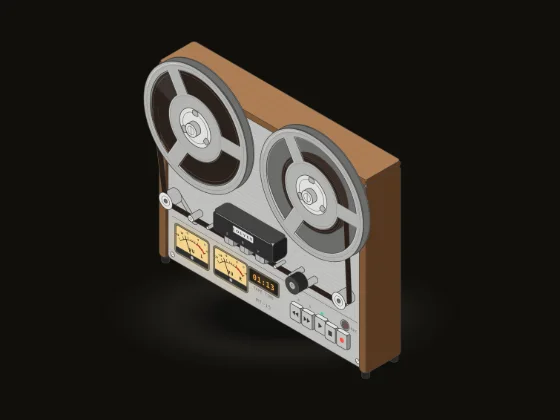
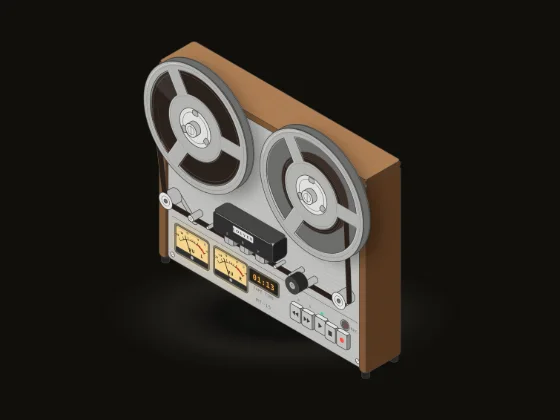
Finish the reel-to-reel deck when done winds it to the end, and give its reels and needles shadows
With motion, done wound the tape to the end through the progress servo,
which lands it exactly there, so the deck never reported complete; it now
completes on arrival, and the pinch roller lets go once it has stopped.
A test covers done with motion.

The reels cast a soft shadow on the plate, the VU needles a faint one on
their faces, and the meter bezels shade the top of each face. Thumbnails
retaken.

diff --git a/packages/miniatures/src/figures/reel-to-reel.ts b/packages/miniatures/src/figures/reel-to-reel.ts
@@ -4,15 +4,15 @@
  * (FigureModule). */
 import type { FigureEnv, FigureModule } from '../engine/types'
 
-const css = `:root{color-scheme:light dark;--bg:#f4f3ef;--ink:#323232;--muted:#808080;--top:#fafaf8;--body:#e0e0dc;--side:#c7c7c3;--recess:#9d9d99;--line:#626260;--accent:#3b5bfd;--rule:#d6d6d2;--shadow:#262626;--off:#b9b9b5;--ok:#15a65e;--warn:#e88a00;--fault:#e3372d;--screen:#1c1d1e;--alu:#e0e0dd;--alu-top:#f2f2f0;--alu-side:#c6c6c2;--wood:#9a6a42;--wood-top:#b9875a;--wood-side:#7b5232;--chrome:#d9dad8;--chrome-top:#f4f4f2;--chrome-side:#bdbebc;--rubber:#2e2e2d;--rubber-top:#474745;--rubber-side:#282827;--blk:#3a3a39;--blk-top:#4a4a48;--blk-side:#2d2d2c;--reel:#d3d4d1;--reel-top:#eeefec;--reel-side:#b1b2af;--reel-in:#a3a4a1;--pack:#3a2e27;--pack-side:#4d3c31;--pack-hi:#6e5646;--tape:#35281f;--tape-edge:#8a6c55;--key:#e6e6e3;--key-top:#f7f7f5;--key-side:#c9c9c5;--vu:#f2e8c9;--vu-ink:#2b2720;--vu-red:#d2402e;--needle:#1c1c1b;--lamp:#ffd27a;--lcd:#ffb347;--rec-off:#a7716b;--brush:.5;--glow:0}
-@media(prefers-color-scheme:dark){:root{--bg:#1a1917;--ink:#e8e8e8;--muted:#929292;--rule:#32312e;--accent:#617cff;--shadow:#000;--top:#eaeae8;--body:#bdbdba;--side:#8c8c8b;--recess:#6e6e6c;--off:#9b9b99;--ok:#36d886;--warn:#ffad2b;--fault:#ff4c41;--screen:#161717;--alu:#bdbdbb;--alu-top:#e2e2e1;--alu-side:#8b8b8a;--wood:#815836;--wood-top:#ad7e54;--wood-side:#553720;--chrome:#b7b7b6;--chrome-top:#e4e4e2;--chrome-side:#858585;--rubber:#252524;--rubber-top:#424240;--rubber-side:#191919;--blk:#2f2f2f;--blk-top:#454543;--blk-side:#1d1d1c;--reel:#b2b3b1;--reel-top:#dfe0de;--reel-side:#7d7e7c;--reel-in:#6c6d6b;--pack:#2a211c;--pack-side:#3b2e25;--pack-hi:#5c4839;--tape:#2a2019;--tape-edge:#76604d;--key:#c3c3c1;--key-top:#e3e3e1;--key-side:#8a8a88;--vu:#f4d58e;--vu-ink:#2a2116;--vu-red:#c8392a;--needle:#151515;--lamp:#ffcf6e;--lcd:#ffb04a;--rec-off:#6f504c;--brush:.2;--glow:.55;--line:#444443}svg{--ink:#282828;--muted:#6b6b6b}}
+const css = `:root{color-scheme:light dark;--bg:#f4f3ef;--ink:#323232;--muted:#808080;--top:#fafaf8;--body:#e0e0dc;--side:#c7c7c3;--recess:#9d9d99;--line:#626260;--accent:#3b5bfd;--rule:#d6d6d2;--shadow:#262626;--off:#b9b9b5;--ok:#15a65e;--warn:#e88a00;--fault:#e3372d;--screen:#1c1d1e;--alu:#e0e0dd;--alu-top:#f2f2f0;--alu-side:#c6c6c2;--wood:#9a6a42;--wood-top:#b9875a;--wood-side:#7b5232;--chrome:#d9dad8;--chrome-top:#f4f4f2;--chrome-side:#bdbebc;--rubber:#2e2e2d;--rubber-top:#474745;--rubber-side:#282827;--blk:#3a3a39;--blk-top:#4a4a48;--blk-side:#2d2d2c;--reel:#d3d4d1;--reel-top:#eeefec;--reel-side:#b1b2af;--reel-in:#a3a4a1;--pack:#3a2e27;--pack-side:#4d3c31;--pack-hi:#6e5646;--tape:#35281f;--tape-edge:#8a6c55;--key:#e6e6e3;--key-top:#f7f7f5;--key-side:#c9c9c5;--vu:#f2e8c9;--vu-ink:#2b2720;--vu-red:#d2402e;--needle:#1c1c1b;--lamp:#ffd27a;--lcd:#ffb347;--rec-off:#a7716b;--brush:.5;--glow:0;--rsh:.12}
+@media(prefers-color-scheme:dark){:root{--bg:#1a1917;--ink:#e8e8e8;--muted:#929292;--rule:#32312e;--accent:#617cff;--shadow:#000;--top:#eaeae8;--body:#bdbdba;--side:#8c8c8b;--recess:#6e6e6c;--off:#9b9b99;--ok:#36d886;--warn:#ffad2b;--fault:#ff4c41;--screen:#161717;--alu:#bdbdbb;--alu-top:#e2e2e1;--alu-side:#8b8b8a;--wood:#815836;--wood-top:#ad7e54;--wood-side:#553720;--chrome:#b7b7b6;--chrome-top:#e4e4e2;--chrome-side:#858585;--rubber:#252524;--rubber-top:#424240;--rubber-side:#191919;--blk:#2f2f2f;--blk-top:#454543;--blk-side:#1d1d1c;--reel:#b2b3b1;--reel-top:#dfe0de;--reel-side:#7d7e7c;--reel-in:#6c6d6b;--pack:#2a211c;--pack-side:#3b2e25;--pack-hi:#5c4839;--tape:#2a2019;--tape-edge:#76604d;--key:#c3c3c1;--key-top:#e3e3e1;--key-side:#8a8a88;--vu:#f4d58e;--vu-ink:#2a2116;--vu-red:#c8392a;--needle:#151515;--lamp:#ffcf6e;--lcd:#ffb04a;--rec-off:#6f504c;--brush:.2;--glow:.55;--rsh:.3;--line:#444443}svg{--ink:#282828;--muted:#6b6b6b}}
 .face{fill:var(--body);stroke:var(--line);stroke-width:1;vector-effect:non-scaling-stroke;stroke-linejoin:round}.top{fill:var(--top)}.side{fill:var(--side,var(--body))}.recess{fill:var(--recess)}.screen{fill:var(--screen)}.detail{fill:none;stroke:var(--line);stroke-width:.65;vector-effect:non-scaling-stroke;stroke-linecap:round;stroke-linejoin:round}.etch{fill:var(--muted);font:3.2px ui-monospace,monospace;letter-spacing:.45px;stroke:none}.micro{font-size:2.6px;letter-spacing:.2px}.center{text-anchor:middle}.shadow{fill:var(--shadow);opacity:.075;filter:url(#soft)}
 .alu{fill:var(--alu)}.top.alu{fill:var(--alu-top)}.side.alu{fill:var(--alu-side)}.wood{fill:var(--wood)}.top.wood{fill:var(--wood-top)}.side.wood{fill:var(--wood-side)}.chrome{fill:var(--chrome)}.top.chrome{fill:var(--chrome-top)}.side.chrome{fill:var(--chrome-side)}.rubber{fill:var(--rubber)}.top.rubber{fill:var(--rubber-top)}.side.rubber{fill:var(--rubber-side)}.blk{fill:var(--blk)}.top.blk{fill:var(--blk-top)}.side.blk{fill:var(--blk-side)}.reel{fill:var(--reel)}.top.reel{fill:var(--reel-top)}.side.reel{fill:var(--reel-side)}.key{fill:var(--key)}.top.key{fill:var(--key-top)}.side.key{fill:var(--key-side)}
 .reel-in{fill:var(--reel-in)}.pack{fill:var(--pack)}.pack-side{fill:var(--pack-side)}.pack-hi{fill:none;stroke:var(--pack-hi);stroke-width:.9;vector-effect:non-scaling-stroke}.pack-sheen{fill:#fff;opacity:.08;stroke:none}.reel-blur{fill:var(--reel);stroke:none;opacity:0}.chamfer{fill:none;stroke:#fff;stroke-width:.7;vector-effect:non-scaling-stroke;opacity:.45;transform:translate(.5px,.35px)}.ring{fill:none;stroke:var(--line);stroke-width:.45;vector-effect:non-scaling-stroke;opacity:.55}.hi{fill:none;stroke:#fff;stroke-width:.8;stroke-linecap:round;vector-effect:non-scaling-stroke;opacity:.7}
 .tape{fill:var(--tape);stroke:var(--line);stroke-width:.5;vector-effect:non-scaling-stroke;stroke-linejoin:round}.tape-edge{fill:none;stroke:var(--tape-edge);stroke-width:.7;vector-effect:non-scaling-stroke;stroke-linejoin:round;stroke-linecap:round}
 .brushed{fill:url(#brushed);stroke:none;pointer-events:none}.brush{stroke:#fff;stroke-width:.32;opacity:var(--brush)}.grain{fill:none;stroke:var(--line);stroke-width:.5;vector-effect:non-scaling-stroke;opacity:.28}
 .arm-u{fill:none;stroke:var(--line);stroke-width:3.6;stroke-linecap:round}.arm{fill:none;stroke:var(--chrome);stroke-width:2.6;stroke-linecap:round}
-.vu{fill:var(--vu)}.vu-glow{fill:var(--lamp);opacity:var(--glow);filter:url(#bloom)}.vu-ink{fill:var(--vu-ink);font:600 1.7px ui-monospace,monospace;stroke:none}.vu-big{font-size:3px;letter-spacing:.5px}.scale{fill:none;stroke:var(--vu-ink);stroke-width:.3}.zone{fill:none;stroke:var(--vu-red);stroke-width:1.1}.needle{fill:none;stroke:var(--needle);stroke-width:.9;vector-effect:non-scaling-stroke;stroke-linecap:round}
+.vu{fill:var(--vu)}.vu-glow{fill:var(--lamp);opacity:var(--glow);filter:url(#bloom)}.vu-ink{fill:var(--vu-ink);font:600 1.7px ui-monospace,monospace;stroke:none}.vu-big{font-size:3px;letter-spacing:.5px}.scale{fill:none;stroke:var(--vu-ink);stroke-width:.3}.zone{fill:none;stroke:var(--vu-red);stroke-width:1.1}.needle{fill:none;stroke:var(--needle);stroke-width:.9;vector-effect:non-scaling-stroke;stroke-linecap:round}.needle-sh{fill:none;stroke:#000;stroke-width:1.4;vector-effect:non-scaling-stroke;stroke-linecap:round;opacity:.12}.bezel-sh{fill:#000;opacity:.1;stroke:none}.rshadow{fill:#000;opacity:var(--rsh);filter:url(#bloom);pointer-events:none}
 .lcd{fill:var(--lcd);font:700 5px ui-monospace,monospace;letter-spacing:.4px;stroke:none}.lcd-halo{fill:var(--lcd);opacity:calc(.1 + var(--glow) * .5);filter:url(#bloom)}
 .glyph{fill:#3a3a39;stroke:none}.glyph.r{fill:var(--fault)}.brand{fill:#2b2b2b;font:600 2.7px Georgia,'Times New Roman',serif;letter-spacing:.7px;stroke:none}.plate{fill:var(--alu-top)}.cap-ink{fill:#d8d8d4;font:2.2px ui-monospace,monospace;letter-spacing:.3px;stroke:none}
 .led{fill:var(--off);stroke:none}.led.g{fill:var(--ok)}.led.a{fill:var(--warn)}.led.r{fill:var(--fault)}.led.g,.led.a,.led.r{filter:url(#glow)}
@@ -75,8 +75,8 @@ const VU=[5,35].map((u0,i)=>{const g=group(`translate(${u0} 100)`,pl);rect(g,0,0
 el('path',{d:`M${sp(12,-48)}A12,12 0 0 1 ${sp(12,ang(1))}`,class:'scale'},g);el('path',{d:`M${sp(12.6,ang(1))}A12.6,12.6 0 0 1 ${sp(12.6,48)}`,class:'zone'},g);
 for(const db of VUDB){const a=ang(vdb(db)),big=[-20,-10,-5,0,3].includes(db);el('path',{d:`M${sp(12,a)}L${sp(big?14:13.3,a)}`,class:'scale'},g);if(big)text(g,...sp(15.6,a).split(',').map(Number),db>0?`+${db}`:db<0?`−${-db}`:'0','vu-ink center');}
 text(g,PX,13.7,'VU','vu-ink vu-big center');text(g,21.2,13.7,i?'R':'L','vu-ink vu-big center');const pk=circle(g,23.4,3.6,.75,'led');
-const nd=el('path',{d:`M${PX},${PY}V4.2`,class:'needle'},g);rect(g,1.1,15.6,24.8,3.3,.6,'face blk');circle(g,PX,17.3,1.2,'face chrome');
-return{nd,pk,x:0,xv:0,a:NaN,pkT:-1e9};});
+rect(g,1.1,1.1,24.8,1.6,1,'bezel-sh');const ns=el('path',{d:`M${PX},${PY}V4.2`,class:'needle-sh'},g),nd=el('path',{d:`M${PX},${PY}V4.2`,class:'needle'},g);rect(g,1.1,15.6,24.8,3.3,.6,'face blk');circle(g,PX,17.3,1.2,'face chrome');
+return{nd,ns,pk,x:0,xv:0,a:NaN,pkT:-1e9};});
 // The tape-time counter and the model.
 const cg=group('translate(62 100.6)',pl);rect(cg,0,0,24,10.4,1.6,'face recess');rect(cg,1,1,22,8.4,1.2,'face screen');rect(cg,3.5,2.2,17,6,2,'lcd-halo');const ctr=text(cg,12,7.3,'','lcd center');text(cg,12,13.6,'TAPE TIME','etch micro center');
 text(pl,74,121.6,'MT–15','etch center');
@@ -90,6 +90,7 @@ circle(pl,137,103.2,3.3,'face chrome');circle(pl,137,103.2,2.5,'face recess');co
 // Behind the tape: the tension arms, the reels' back flanges and tape packs, the roller bodies.
 for(const[pu,pv,ru,rv]of[[20,91,8,79.5],[130,91,142,79.5]]){for(const c of['arm-u','arm'])el('path',{d:`M${pu},${pv}L${ru},${rv}`,class:c},pl);circle(pl,pu,pv,3,'face chrome');circle(pl,pu,pv,1.2,'detail');}
 const LB=el('g',{}),LR=el('g',{}),LT=el('g',{}),LF=el('g',{}),LV=el('g',{}),LC=el('g',{});
+for(const u of[30,120])el('path',{d:ell({u:u+3.5,v:24},24.1,40),class:'rshadow'},LB);
 const REELS=[{u:30,v:20},{u:120,v:20}].map(c=>{const b=el('g',{},LB),f=el('g',{},LV);
 const r={...c,b,f,bR:el('path',{d:cyl(c,27.4,28,40),class:'face side reel'},b),bF:el('path',{d:ell(c,28,40),class:'face reel-in'},b),pS:el('path',{class:'face pack-side'},b),pF:el('path',{class:'face pack'},b),pH:el('path',{class:'pack-hi'},b),pSh:el('path',{class:'pack-sheen'},b),
 fE:el('path',{d:cyl(c,32.4,33,40,0),class:'face side reel'},f),fl:el('path',{class:'face reel','fill-rule':'evenodd'},f),wh:el('path',{class:'chamfer'},f),blur:el('path',{d:ell(c,33.01,34.6)+ell(c,33.01,21),class:'reel-blur','fill-rule':'evenodd'},f),
@@ -197,11 +198,11 @@ if(!thr.sw)s0=ease(clamp(e/.5));else s1=ease(clamp((e-1.3)/1));if(e>=2.4)threade
 const wind_=mode==='ff'||mode==='rew',engage=mode==='play'||mode==='rec';let vt=0;
 if(det&&!thr){const e=target-t;vt=abs(e)<.03?0:clamp(e/1.1,-WIND,WIND);if(vt&&abs(vt)<.3)vt=.3*Math.sign(vt);if(abs(vt)>1.5)vt=Math.sign(vt)*min(abs(vt),WIND);}
 else if(mode==='ff')vt=min(WIND,sqrt(2*20*max(0,LEN-t))+.4);else if(mode==='rew')vt=-min(WIND,sqrt(2*20*max(0,t))+.4);else if(engage)vt=lift>.02||abs(v)>1.3?0:1;
-const windNow=wind_||(det&&abs(vt)>1.5),liftT=windNow||(engage&&abs(v)>1.3)?1:0,pinchT=(engage||det)&&!windNow&&abs(v)<1.3&&lift<.05?1:0;
+const windNow=wind_||(det&&abs(vt)>1.5),liftT=windNow||(engage&&abs(v)>1.3)?1:0,pinchT=engage&&!windNow&&abs(v)<1.3&&lift<.05?1:0;
 if(red){v=vt;lift=liftT;pinch=pinchT;}else{const acc=abs(vt)>abs(v)&&vt*v>=0?(abs(vt)>1.5?14:9):(abs(v)>1.5?24:9);v+=clamp(vt-v,-acc*dt,acc*dt);lift+=clamp(liftT-lift,-4*dt,4*dt);pinch+=clamp(pinchT-pinch,-6*dt,6*dt);}
 const t0=t;t=clamp(t+v*dt,0,LEN);if(det&&!thr&&abs(target-t)<.03&&abs(v)<.5){t=target;v=0;}const heads=lift<.05&&pinch>.9&&v>.05&&!thr;
 if(heads&&mode==='rec')paint(t0,t,'take');
-if(t>=LEN&&v>0){v=0;if(det){if(fin===1){fin=2;go('stop');say('Complete: the tape is at its end.');}}else{const was=mode;go('stop');if(was==='play'){auto=now+1400;say('End of tape. Rewinding to the head.');}else say('End of tape.');}}
+if(det&&fin===1&&t>=LEN-1e-6){v=0;fin=2;go('stop');say('Complete: the tape is at its end.');}else if(t>=LEN&&v>0){v=0;if(!det){const was=mode;go('stop');if(was==='play'){auto=now+1400;say('End of tape. Rewinding to the head.');}else say('End of tape.');}}
 if(t<=0&&v<0){v=0;if(!det){const back=auto<0;go('stop');if(back){go('play');say('At the head: playing again.');}else say('Rewound to the head.');}}
 if(auto>0&&now>auto&&mode==='stop'){if(red){t=0;go('play');}else{go('rew');auto=-1;}}
 if(mode!=='stop'||abs(v)>.01)fresh=fresh&&t<.05;
@@ -215,7 +216,7 @@ for(const k of KEYS){const o=k.on?1:0;if(o!==k.o){k.o=o;set(k.g,'transform',o?sh
 const rec=heads&&mode==='rec',k=heads?(rec?'rec':kindAt(t)):'',sv=min(1,v);let mur=0;
 VU.forEach((m,ch)=>{const db=!k||k==='blank'?-60:red?STEADY[k]:k==='mix'?music(t,ch):voice(t,ch)+(rec?2.5:0),V=vdb(db)*(red?1:sv);
 if(red){m.x=V;m.xv=0;}else{const w=15,z=.8;m.xv+=(w*w*(V-m.x)-2*z*w*m.xv)*dt;m.x+=m.xv*dt;if(m.x<0){m.x=0;m.xv*=-.2;}if(m.x>1.5){m.x=1.5;m.xv*=-.3;}}
-const a=ang(m.x);if(!(abs(a-m.a)<.05)){m.a=a;set(m.nd,'transform',`rotate(${f2(a)} ${PX} ${PY})`);}if(!red&&m.x>1.12)m.pkT=now;lit(m.pk,now-m.pkT<160?'r':'','led');if(k&&k!=='mix')mur=max(mur,clamp(V));});
+const a=ang(m.x);if(!(abs(a-m.a)<.05)){m.a=a;const rt=`rotate(${f2(a)} ${PX} ${PY})`;set(m.nd,'transform',rt);set(m.ns,'transform',`translate(.3 .45) ${rt}`);}if(!red&&m.x>1.12)m.pkT=now;lit(m.pk,now-m.pkT<160?'r':'','led');if(k&&k!=='mix')mur=max(mur,clamp(V));});
 sound(heads,k||'',sv,mur);
 if(lastUI<0||now-lastUI>120){lastUI=now;ui(now);}requestAnimationFrame(tick);}
 VU.forEach(m=>{m.x=vdb(STEADY.mix);});sync();requestAnimationFrame(tick);

diff --git a/packages/miniatures/src/reel-to-reel.test.tsx b/packages/miniatures/src/reel-to-reel.test.tsx
@@ -228,6 +228,19 @@ describe('Reel-to-reel tape recorder', () => {
     expect(handle().getSnapshot().state).toBe('PROGRESS 40% · REC PAUSE')
   })
 
+  it('with motion done winds the rest through and stops, the record lamp out', async () => {
+    const run = useFrames()
+    const { handle, rerender, ref, svg } = mount(MiniatureReelToReel, { progress: 0.6 })
+    await run(6000)
+    rerender(<MiniatureReelToReel ref={ref} progress={0.6} done />)
+    await run(500)
+    expect(handle().getSnapshot().state).toMatch(/^FINISHING · \d+%$/)
+    await run(12_000)
+    expect(handle().getSnapshot().readout).toBe('05:00 · −∞ DB · STOP')
+    expect(handle().getSnapshot().state).toBe('COMPLETE · TAPE AT THE END')
+    expect(lamp(svg())).not.toHaveClass('on')
+  })
+
   it('the handle drives it too: setProgress, null to run free again, done', async () => {
     const run = useFrames()
     const ref = createRef<MiniatureReelToReelHandle>()
